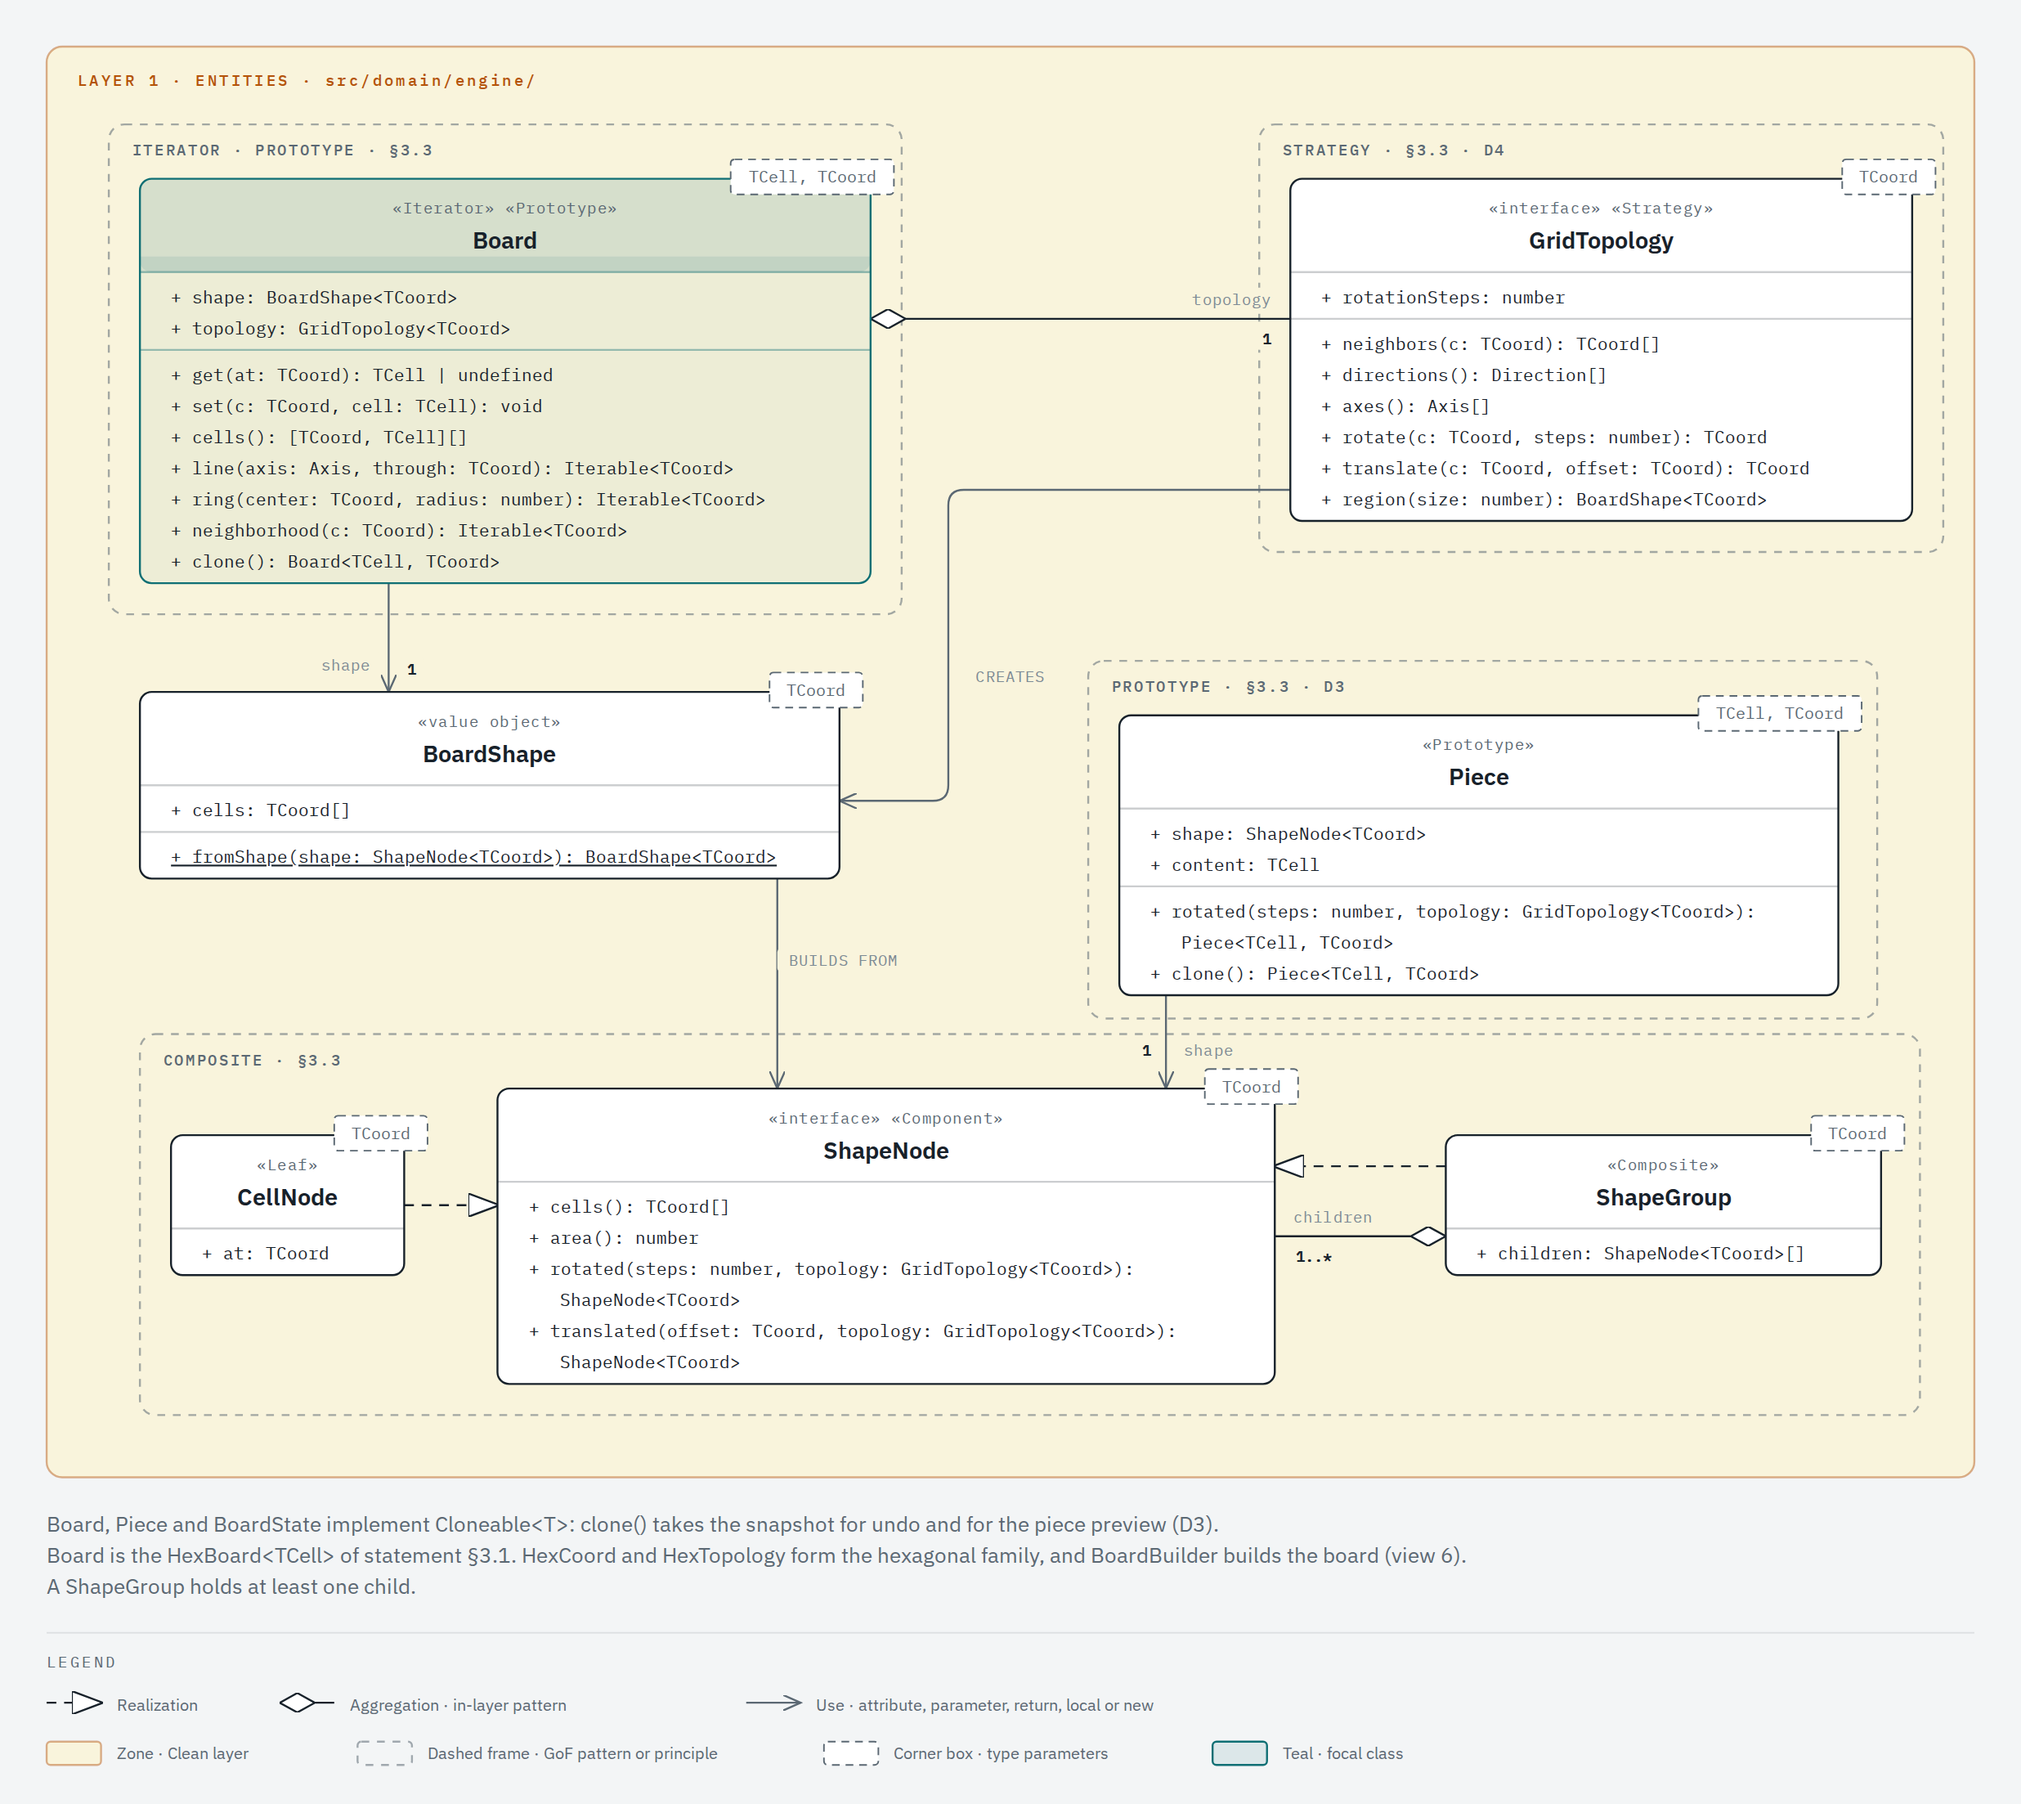
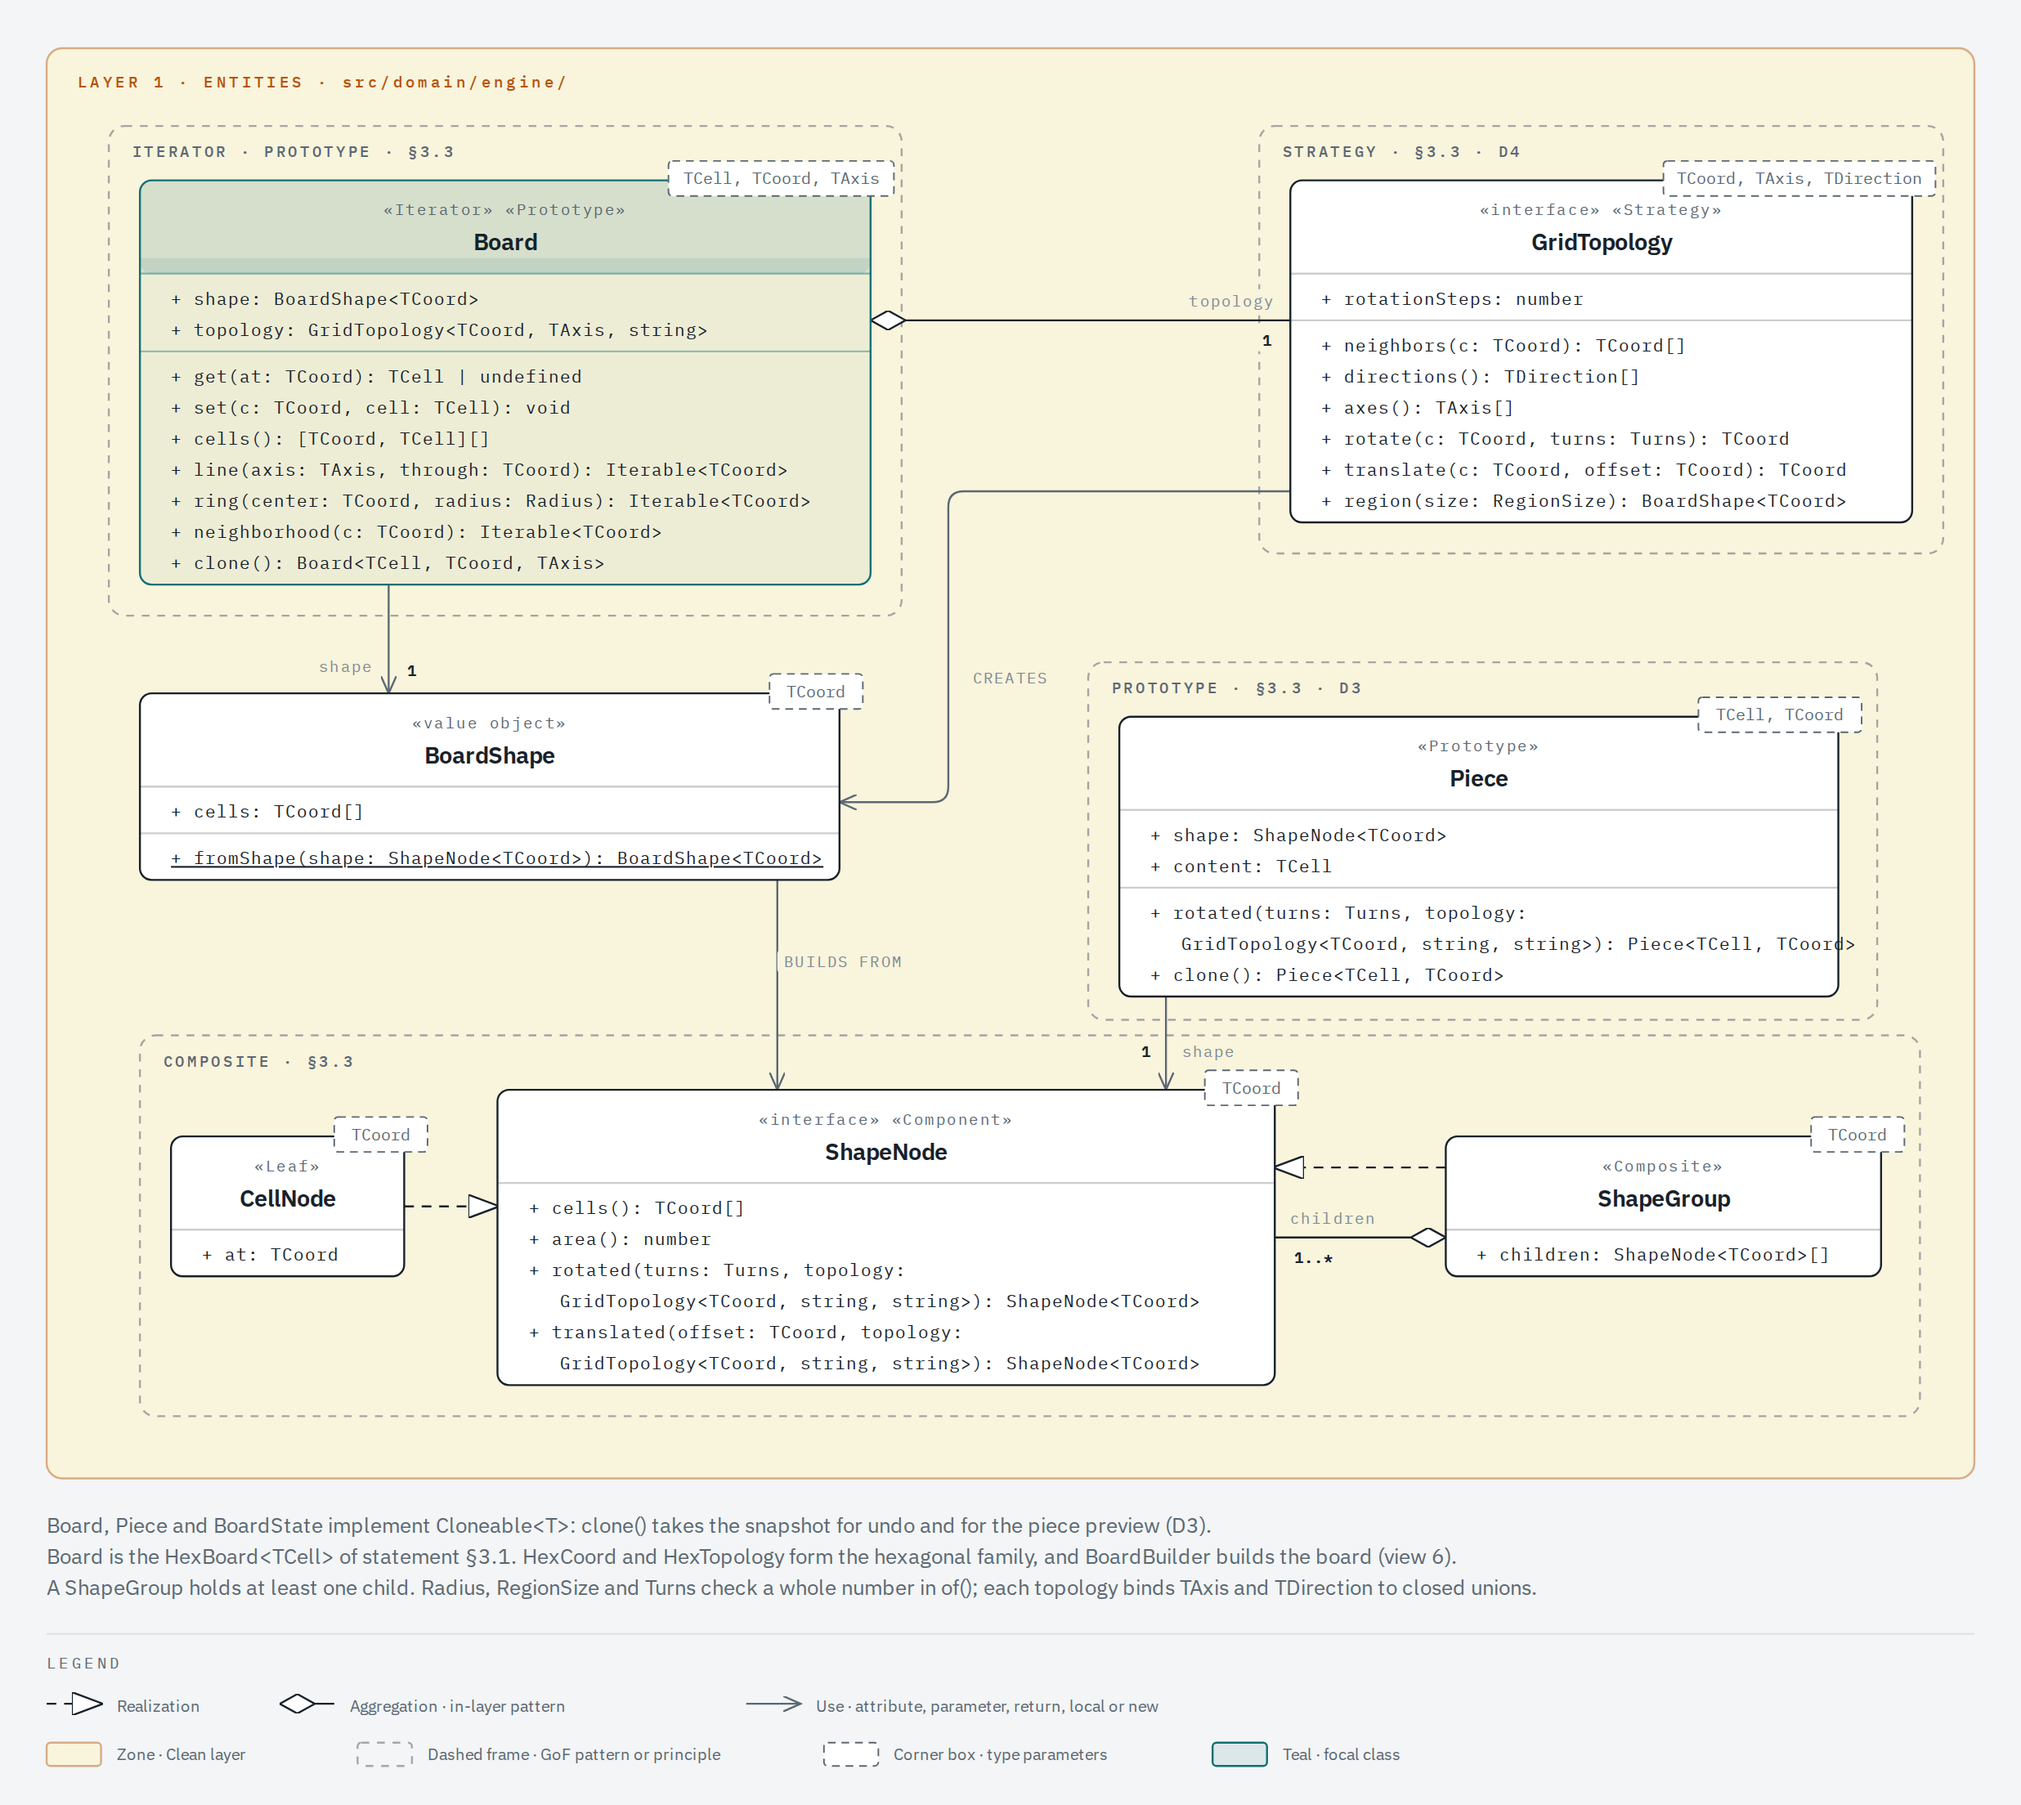
docs(engine): state the design limits of CoordKey and the axis unions
coordKey() brands any text. A comment now states that the topology owns
the key format. A cast such as `'nort' as SquareAxis` passes the
compiler, so a comment states that a real topology must check the axis
at runtime (design for Sprint 2). No test covers either: both are design.

View 2 PNG was stale versus its HTML. It is rendered again with
Playwright: the `.frame svg` element, viewport width 1300, scale 2.

Refs #86

diff --git a/src/domain/engine/grid-topology.ts b/src/domain/engine/grid-topology.ts
@@ -9,6 +9,8 @@ import type { Turns } from './turns';
 // A coordinate only holds its values. No engine code adds two coordinates itself.
 // Each topology declares its axes and its directions as closed unions of names,
 // for example `'q' | 'r' | 's'`. So the compiler rejects an axis that the topology lacks.
+// A cast such as `'nort' as SquareAxis` passes the compiler. So a real topology must also
+// check the axis and the direction at runtime (design for Sprint 2). The test doubles do not.
 export interface GridTopology<TCoord, TAxis extends string, TDirection extends string> {
   // The number of rotation steps of a full turn: 6 for a hexagon, 4 for a square.
   readonly rotationSteps: number;

diff --git a/src/domain/engine/coord-key.ts b/src/domain/engine/coord-key.ts
@@ -7,6 +7,9 @@ declare const coordKeyBrand: unique symbol;
 export type CoordKey = string & { readonly [coordKeyBrand]: true };
 
 // Brands a text as a key. A topology calls it in `key()`.
+// It brands any text and checks no format. The topology owns the format of its keys,
+// and it must give one key to each coordinate and two keys to two coordinates.
+// This is a design choice: the engine cannot know the format of every topology.
 export function coordKey(text: string): CoordKey {
   return text as CoordKey;
 }

diff --git a/CHANGELOG.md b/CHANGELOG.md
@@ -25,7 +25,7 @@ Each sprint of [`docs/ROADMAP.md`](docs/ROADMAP.md) closes with a version sectio
 
 ### Changed
 
-- `GridTopology<TCoord, TAxis, TDirection>` and `Board<TCell, TCoord, TAxis>` carry closed axis and direction unions, so `line()` with an axis that the topology lacks does not compile. `ring()` takes a `Radius`, `region()` a `RegionSize`, `rotate()` and `rotated()` a `Turns`, and `key()` returns a `CoordKey`. The square and triangle doubles declare their own unions. `GameEngine`, `IGameRules` and `BoardState` keep their type parameters. View 2, `classes.md` and the README tables show the new signatures ([#86](https://github.com/Hexablock-Suite/hexablock-app/issues/86)).
+- `GridTopology<TCoord, TAxis, TDirection>` and `Board<TCell, TCoord, TAxis>` carry closed axis and direction unions, so `line()` with an axis that the topology lacks does not compile. `ring()` takes a `Radius`, `region()` a `RegionSize`, `rotate()` and `rotated()` a `Turns`, and `key()` returns a `CoordKey`. The square and triangle doubles declare their own unions. `GameEngine`, `IGameRules` and `BoardState` keep their type parameters. View 2, `classes.md` and the README tables show the new signatures Comments state that the topology owns the format of `CoordKey`, and that a real topology must check an axis at runtime, because a cast such as `'nort' as SquareAxis` compiles. View 2 PNG is rendered again from its HTML ([#86](https://github.com/Hexablock-Suite/hexablock-app/issues/86)).
 - The README section «Generic Engine» describes the Sprint 1 code: links to the source files, the members of `GridTopology`, the test doubles, and a bounds table with a Status column that marks `IMergeable<TCell>` on `MergeRules` as a design bound for Sprint 2 ([#75](https://github.com/Hexablock-Suite/hexablock-app/issues/75)).
 - Sprint 0 closes with `v0.0.0`: `docs/ROADMAP.md` is approved, the README names the five use case flows and marks the engine sections as design, `AI_USAGE.md` logs the work of 2026-11-03 and 2026-11-04, and APP-FR-16 no longer says the square geometry exists in the engine tests.
 - `docs/REQUIREMENTS.md` records the answers of the session of 2026-11-03: C3 and C7 confirm A3 and A5, Q4 keeps the level update behind the token guard with no roles, gravity is not an axis, and APP-NFR-10 names Clean plus an architecture for games for every layer. Flow 5 and its sequence diagram cite view 3.3 of the API class diagram, not view 4.3 ([#63](https://github.com/Hexablock-Suite/hexablock-app/pull/63)).

diff --git a/AI_USAGE.md b/AI_USAGE.md
@@ -41,6 +41,7 @@ TODO: add one entry per task: date, task, tool, prompt summary, what was kept an
 | 2026-11-05 | Sprint 1, #73 review gaps: the end check reads one move                          | Claude Code | Two pinning tests for `noValidMove()`: a counting generator and a generator that throws after its first move; a mutation that spreads the moves into an array turns both red                                                                                                                                                                                                                                                                     | Pending team review   |
 | 2026-11-05 | Sprint 1, #74 review gaps: progress values and the full board                    | Claude Code | A `RangeError` for a NaN score, a NaN time and negative stars, with RED observed first; pins for 2.5 moves and for a move after the board fills (the `game-over` phase rejects it)                                                                                                                                                                                                                                                               | Pending team review   |
 | 2026-11-05 | Sprint 1, #75 review gaps: nested bounds in the bounds gate                      | Claude Code | A test that the gate reads `BoardState<Map<string, X>>` whole (a one-level regex reader turns it red), and a gate comment that the table covers only the engine                                                                                                                                                                                                                                                                                  | Pending team review   |
+| 2026-11-05 | Sprint 1, #86 review gaps: design comments and view 2 PNG                        | Claude Code | Comments on the `CoordKey` format and on an axis cast in a real topology (design, no test), and `engine-2-board.png` rendered again with Playwright from its HTML                                                                                                                                                                                                                                                                                | Pending team review   |
 
 ## Critical Evaluation
 
